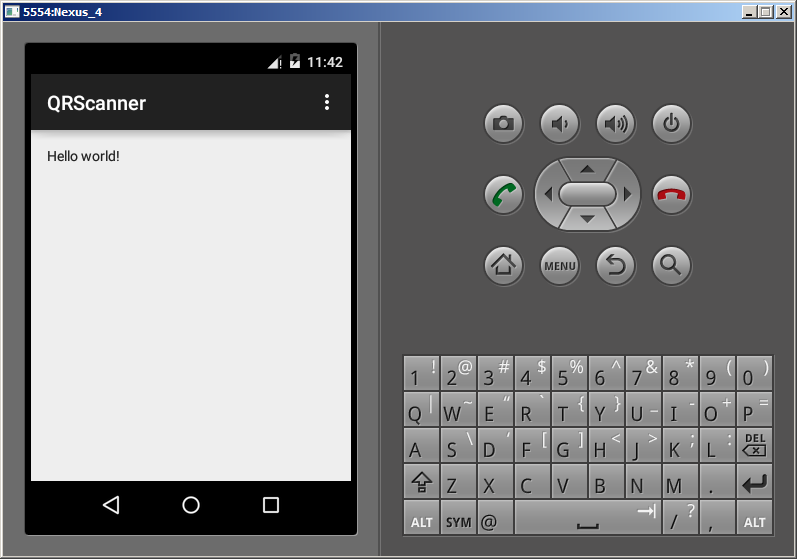
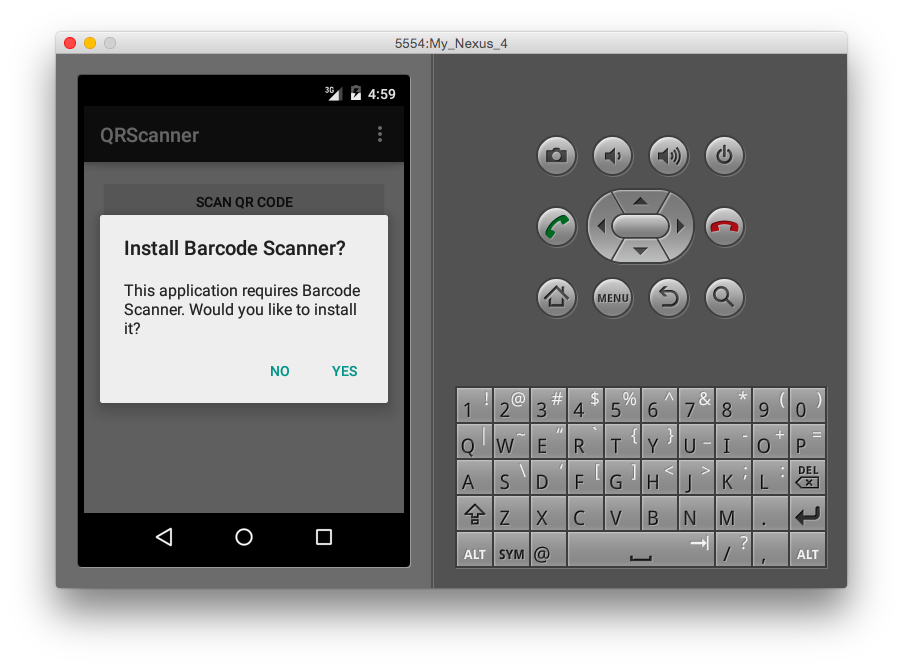
Add Button to start ZXing Barcode Scanner app

diff --git a/QRScanner/src/de/afarber/qrscanner/MainActivity.java b/QRScanner/src/de/afarber/qrscanner/MainActivity.java
@@ -1,9 +1,12 @@
 package de.afarber.qrscanner;
 
+import com.google.zxing.integration.android.IntentIntegrator;
+
 import android.os.Bundle;
 import android.support.v7.app.AppCompatActivity;
 import android.view.Menu;
 import android.view.MenuItem;
+import android.view.View;
 
 public class MainActivity extends AppCompatActivity {
 
@@ -11,7 +14,16 @@ public class MainActivity extends AppCompatActivity {
 	protected void onCreate(Bundle savedInstanceState) {
 		super.onCreate(savedInstanceState);
 		setContentView(R.layout.activity_main);
+	    findViewById(R.id.scan_qr_code).setOnClickListener(scanQRCode);
 	}
+	
+	private final View.OnClickListener scanQRCode = new View.OnClickListener() {
+		@Override
+		public void onClick(View v) {
+			IntentIntegrator integrator = new IntentIntegrator(MainActivity.this);
+			integrator.initiateScan(IntentIntegrator.QR_CODE_TYPES);
+		}
+	};
 
 	@Override
 	public boolean onCreateOptionsMenu(Menu menu) {
